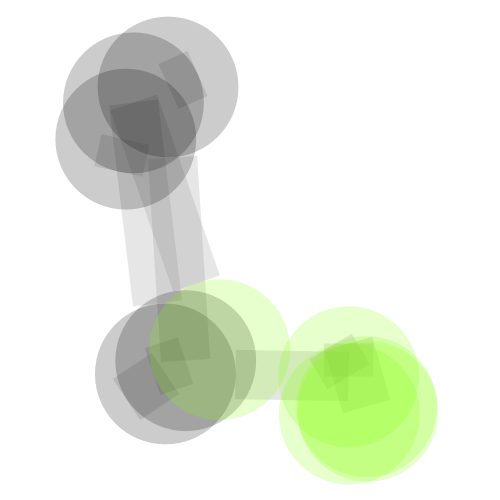
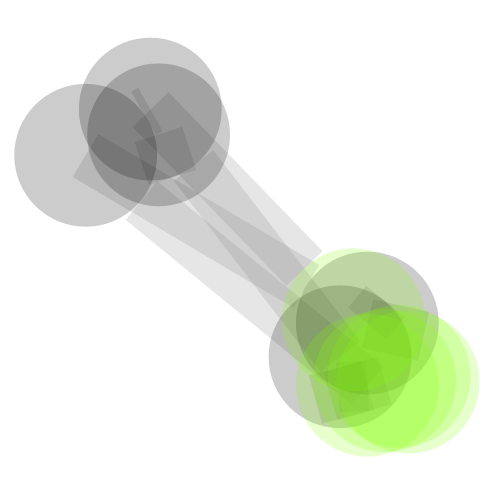
Storing and loading layouts

diff --git a/src/main/java/ch/tkuhn/lagravis/Lagravis.java b/src/main/java/ch/tkuhn/lagravis/Lagravis.java
@@ -17,6 +17,8 @@ import org.gephi.data.attributes.api.AttributeTable;
 import org.gephi.data.attributes.api.AttributeType;
 import org.gephi.graph.api.GraphController;
 import org.gephi.graph.api.GraphModel;
+import org.gephi.graph.api.Node;
+import org.gephi.graph.api.NodeIterator;
 import org.gephi.io.exporter.api.ExportController;
 import org.gephi.io.exporter.preview.PNGExporter;
 import org.gephi.io.importer.api.Container;
@@ -53,6 +55,7 @@ public class Lagravis {
 
 	private Properties properties = new Properties();
 	private File dir;
+	private GraphModel gm;
 
 	public static void main(String[] args) throws IOException {
 		if (args.length != 1) {
@@ -88,7 +91,7 @@ public class Lagravis {
 			ex.printStackTrace();
 		}
 		imp.process(c, new DefaultProcessor(), ws);
-		GraphModel gm = Lookup.getDefault().lookup(GraphController.class).getModel();
+		gm = Lookup.getDefault().lookup(GraphController.class).getModel();
 
 		PreviewModel model = Lookup.getDefault().lookup(PreviewController.class).getModel();
 		PreviewProperties props = model.getProperties();
@@ -98,23 +101,28 @@ public class Lagravis {
 		Color edgeColor = Color.decode(getProperty("edge-color"));
 		props.putValue(PreviewProperty.EDGE_COLOR, new EdgeColor(edgeColor));
 		props.putValue(PreviewProperty.EDGE_OPACITY, new Float(getProperty("edge-opacity")));
-		props.putValue(PreviewProperty.EDGE_THICKNESS, new Float(getProperty("edge-thickness")));
 		props.putValue(PreviewProperty.NODE_OPACITY, new Float(getProperty("node-opacity")));
 
-		OpenOrdLayoutBuilder b = new OpenOrdLayoutBuilder();
-		OpenOrdLayout layout = (OpenOrdLayout) b.buildLayout();
-		layout.resetPropertiesValues();
-		layout.setLiquidStage(new Integer(getProperty("liquid-stage")));
-		layout.setExpansionStage(new Integer(getProperty("expansion-stage")));
-		layout.setCooldownStage(new Integer(getProperty("cooldown-stage")));
-		layout.setCrunchStage(new Integer(getProperty("crunch-stage")));
-		layout.setSimmerStage(new Integer(getProperty("simmer-stage")));
-		layout.setGraphModel(gm);
-		layout.initAlgo();
-		while (layout.canAlgo()) {
-			layout.goAlgo();
+		// Normalize edge thickness by node size:
+		float edgeThickness = new Float(getProperty("edge-thickness")) * (getNodeSize() / 10.0f);
+		props.putValue(PreviewProperty.EDGE_THICKNESS, edgeThickness);
+
+		if (!getProperty("do-layout").equals("no")) {
+			OpenOrdLayoutBuilder b = new OpenOrdLayoutBuilder();
+			OpenOrdLayout layout = (OpenOrdLayout) b.buildLayout();
+			layout.resetPropertiesValues();
+			layout.setLiquidStage(new Integer(getProperty("liquid-stage")));
+			layout.setExpansionStage(new Integer(getProperty("expansion-stage")));
+			layout.setCooldownStage(new Integer(getProperty("cooldown-stage")));
+			layout.setCrunchStage(new Integer(getProperty("crunch-stage")));
+			layout.setSimmerStage(new Integer(getProperty("simmer-stage")));
+			layout.setGraphModel(gm);
+			layout.initAlgo();
+			while (layout.canAlgo()) {
+				layout.goAlgo();
+			}
+			layout.endAlgo();
 		}
-		layout.endAlgo();
 
 		AttributeModel attributeModelLocal = Lookup.getDefault().lookup(AttributeController.class).getModel();
 		AttributeTable nodeTable = attributeModelLocal.getNodeTable();
@@ -165,13 +173,7 @@ public class Lagravis {
 
 		for (String s : getProperty("output-formats").split(",")) {
 			if (s.isEmpty()) continue;
-			if (s.equals("pdf")) {
-				try {
-					ec.exportFile(new File(dir, outputName + ".pdf"));
-				} catch (IOException ex) {
-					ex.printStackTrace();
-				}
-			} else if (s.matches("png[0-9]*")) {
+			if (s.matches("png[0-9]*")) {
 				int size = 1000;
 				if (s.length() > 3) {
 					size = new Integer(s.substring(3));
@@ -185,6 +187,12 @@ public class Lagravis {
 				} catch (IOException ex) {
 					ex.printStackTrace();
 				}
+			} else {
+				try {
+					ec.exportFile(new File(dir, outputName + "." + s));
+				} catch (IOException ex) {
+					ex.printStackTrace();
+				}
 			}
 		}
 
@@ -194,6 +202,16 @@ public class Lagravis {
 		String value = properties.getProperty(key);
 		if (value != null) return value;
 		return defaultProperties.getProperty(key);
+	}
+
+	private float getNodeSize() {
+		NodeIterator iter = gm.getGraph().getNodes().iterator();
+		while (iter.hasNext()) {
+			Node n = iter.next();
+			if (n == null) continue;
+			return n.getNodeData().getSize();
+		}
+		return 10.0f;
 	}
 
 }
